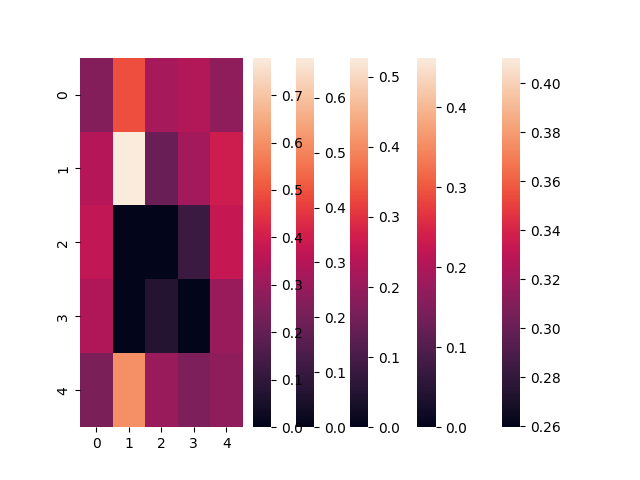
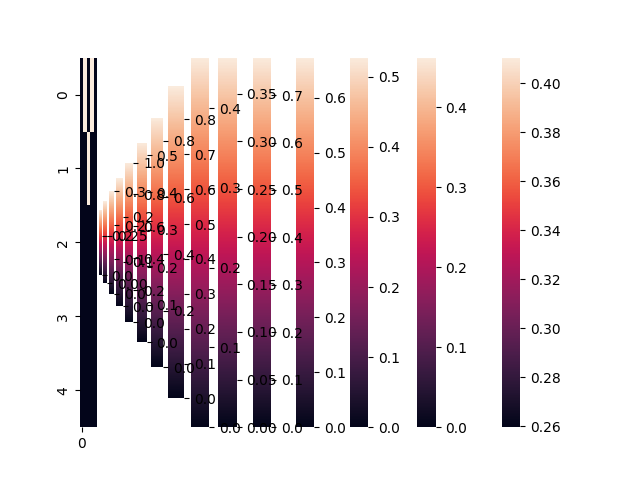
IA "avancé" fonctionnelle => continuer les tests manuels + revoir tous les tests unitaires

Changed region(s): [[0.125, 0.0938, 0.4375, 0.9375]]

diff --git a/BatailleNavale.py b/BatailleNavale.py
@@ -133,12 +133,24 @@ class BatailleNavale:
 
         # mdofocation du symbole si tir = touché
         else:
-            initiale = grille_subit_Attaque[ligne - 1][colonne - 1].get_symbole()
-            grille_subit_Attaque[ligne - 1][colonne - 1].set_statut("hit")
-            grille_d_Attaque[ligne - 1][colonne - 1].set_statut("hit")
+            navire = grille_subit_Attaque[ligne - 1][colonne - 1].get_navire()
+            initiale = navire.get_symbole()
+            grille_subit_Attaque[ligne - 1][colonne - 1].set_statut("hit", navire = navire)
+            grille_d_Attaque[ligne - 1][colonne - 1].set_statut("hit", navire = navire)
             if self.navire_coule(initiale, grille_subit_Attaque):
-                grille_subit_Attaque[ligne - 1][colonne - 1].set_statut("cast")
-                grille_d_Attaque[ligne - 1][colonne - 1].set_statut("cast")
+                grille_subit_Attaque[ligne - 1][colonne - 1].set_statut("cast", navire = navire)
+                grille_d_Attaque[ligne - 1][colonne - 1].set_statut("cast", navire = navire)
+
+                # Modification du statut dee toute les cases du navire coulé
+                for grille in [grille_subit_Attaque, grille_d_Attaque] :
+                    for ligne in grille :
+                        for tile in ligne :
+                            try : 
+                                if tile.get_navire() == navire :
+                                    tile.set_statut("cast", navire = navire)
+                            except : 
+                                pass
+                            
                 print("Navire coulé !")
                 return "Touché, Coulé"
             return "Touché"

diff --git a/Tile.py b/Tile.py
@@ -53,7 +53,7 @@ class Tile() :
         return True
 
 
-    def set_statut(self, statut : str | None = None): 
+    def set_statut(self, statut : str | None = None, navire : Navire|None = None): 
             match statut :
                 case None :
                     self._statut = None
@@ -64,10 +64,24 @@ class Tile() :
                 # touché
                 case "hit" : 
                     self._statut = "hit"
+                    # cas particulier : changement de la valeur de "self.navire" pour la grille d'attaque:
+                    # permet de transferer l'information pour l'IA avance.
+                    try :
+                        if self.get_navire() is None and navire is not None :
+                            self.set_navire(navire=navire)
+                    except :
+                        pass
                     self.set_symbole("X")
                 # coulé
                 case "cast" : 
                     self._statut = "cast"
+                    # cas particulier : changement de la valeur de "self.navire" pour la grille d'attaque:
+                    # permet de transferer l'information pour l'IA avance.
+                    try :
+                        if self.get_navire() is None and navire is not None :
+                            self.set_navire(navire=navire)
+                    except :
+                        pass
                     self.set_symbole("X")
 
     # Constructeur

diff --git a/Tools_IA.py b/Tools_IA.py
@@ -103,10 +103,15 @@ def generer_configurations(plateau_cible, navires : set):
                 nb_hits += 1
             
 
-    # Si un ou plusieurs navires ont été coulé, les supprime du dict qui va servir a trouver toutes les configuration possible avec les navires restant.
+    # Si un ou plusieurs navires ont été coulé, 
+    # on les supprime du dict qui va servir a trouver toutes les configuration possible avec les navires restant.
+    # navire_bis permet simplement de pouvoir iterer sur navire en modifiant ses element sans obtenir d'erreur 
+    navires_bis = deepcopy(navires)
     if len(navires_coules) > 0 :
-        for navire in navires_coules :
-            navires.remove(navire)
+        for navire_coule in navires_coules :
+            for navire in navires_bis :
+                if navire == navire_coule : 
+                    navires.remove(navire)
 
     # transformation du set en list pour pouvoir faire de la recursivité
     navires = list(navires)

diff --git a/IA.py b/IA.py
@@ -11,6 +11,7 @@ On instancie la classe IA en precisant son niveau :
 import random
 import seaborn as sns
 import matplotlib.pyplot as plt
+import os
 from Tools_IA import generer_configurations, genere_matrice_proba, get_ligne_colonne_matrice_proba
 
 
@@ -48,6 +49,10 @@ class IA():
 
         # enregistrement de la matrice de densité
         sns.heatmap(matrice_proba)
+        try : 
+            os.remove('proba_densite.png')
+        except :
+            pass
         plt.savefig('proba_densite.png')
 
         ligne, colonne = get_ligne_colonne_matrice_proba(matrice_proba)

diff --git a/Navire.py b/Navire.py
@@ -81,7 +81,7 @@ class Navire():
                 return True
             return False
         except:
-            print("Vous ne comparez pas 2 instances de la classe Navire")
+            raise ValueError("Vous ne comparez pas 2 instances de la classe Navire")
 
     def __hash__(self):
         return hash((self.nom, self.taille))
